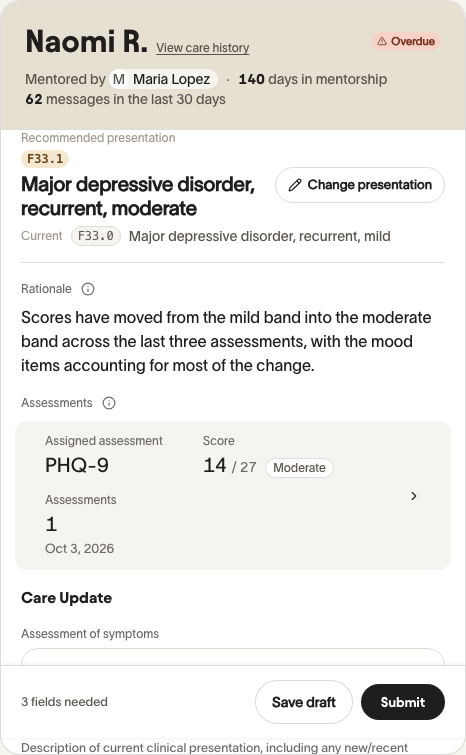
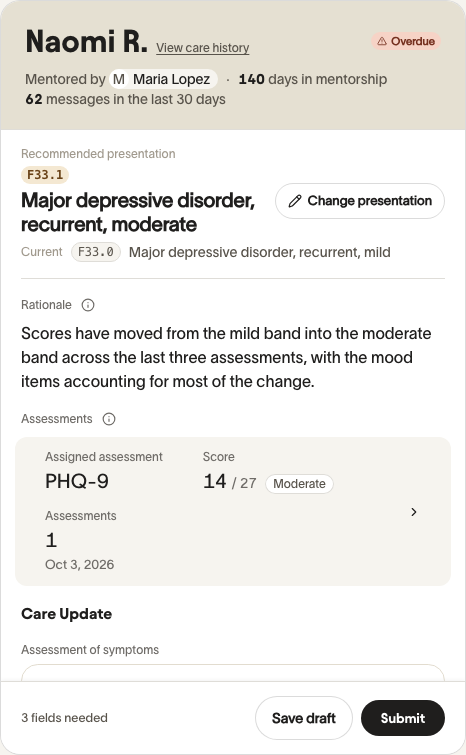
fix(care-reviews): the pane's top padding and footer edge, both lost to sticky insets
Both defects had one cause: a sticky box's inset is measured from the
scroller's content edge, inside its py-4.

- The overlay rail lifted itself with marginTop -16px. As a 0-height block
  in flow it pulled the pane's content up with it (first label 0px from the
  edge instead of 16), and sticky pushed the rail straight back, so the
  pane's thumb had sat 16px low since it shipped (20px from the top,
  overshooting the bottom by 12). The rail now takes no vertical margin and
  the thumb's translate subtracts the padding: gap 16, thumb inset 4 / 4.
- The action bar was sticky bottom-0, which pinned it 16px above the pane's
  edge with fields scrolling through the strip below. -bottom-4 puts it on
  the edge: gap 0 at top, middle and end of scroll.
- scrollbar-gutter probe gains both checks; each was mutation-tested (0px
  vs 16, and a 16px footer gap).

Changed region(s): [[0.03, 0.1523, 0.9614, 1.0], [0.6009, 0.2132, 0.9313, 0.2742], [0.4206, 0.5788, 0.691, 0.6702]]

diff --git a/src/components/ui/overlay-scrollbar.tsx b/src/components/ui/overlay-scrollbar.tsx
@@ -125,14 +125,28 @@ export function OverlayScrollbar({
     const cs = getComputedStyle(sc);
     rail.style.marginRight = `-${cs.paddingRight}`;
     rail.style.marginLeft = `-${cs.paddingLeft}`;
-    rail.style.marginTop = `-${cs.paddingTop}`;
+    /* ═══ VERTICALLY, THE RAIL STAYS PUT AND THE THUMB IS OFFSET ═══
+       This set `marginTop: -paddingTop` to lift the rail to the padding edge.
+       MEASURED, it did two wrong things and no right one:
+       1. It ATE THE TOP PADDING. The rail is a 0-height block in flow, so
+          pulling it up 16px pulled everything after it up too — the pane's
+          first label sat 0px from the scroller's edge instead of `py-4`'s 16.
+       2. It NEVER MOVED THE THUMB. A sticky box's `top: 0` is measured from
+          the scroller's CONTENT edge — inside its padding — so sticky pushed
+          the rail straight back to 16px, and the pane's thumb has sat 16px
+          low since it shipped: 20px from the top instead of 4, overshooting
+          the bottom by 12. The list never showed it because it has no top
+          padding.
+       So the rail takes no vertical margin and the thumb's own offset
+       subtracts the padding instead (below). */
+    const padTop = parseFloat(cs.paddingTop) || 0;
 
     const track = view - INSET_PX * 2;
     const h = Math.max(THUMB_MIN_PX, Math.round((view / total) * track));
     const range = track - h;
     const ratio = sc.scrollTop / (total - view);
     thumb.style.height = `${h}px`;
-    thumb.style.transform = `translateY(${INSET_PX + Math.round(ratio * range)}px)`;
+    thumb.style.transform = `translateY(${INSET_PX - padTop + Math.round(ratio * range)}px)`;
   }, [scrollerOf]);
 
   useLayoutEffect(() => {

diff --git a/src/components/tasks/task-pane.tsx b/src/components/tasks/task-pane.tsx
@@ -1203,7 +1203,14 @@ export function TaskPane({
       <div
         data-slot="task-pane-footer"
         className={cn(
-          "sticky bottom-0 -mx-5 -mb-4 mt-4 border-t border-[color:var(--border-subtle)]",
+          /* ═══ `-bottom-4`, NOT `bottom-0` — THE PADDING IS WHY ═══
+             A sticky box's inset is measured from the scroller's CONTENT edge,
+             inside its `py-4`. So `bottom-0` pinned the bar 16px ABOVE the
+             pane's bottom edge, and the fields scrolled through that strip
+             underneath it — measured, a 16px gap below the bar on every
+             scrolled pane. `-bottom-4` cancels the padding exactly, pinning
+             the bar to the edge; `-mb-4` still does the short-content case. */
+          "sticky -bottom-4 -mx-5 -mb-4 mt-4 border-t border-[color:var(--border-subtle)]",
           "bg-[var(--surface-card)] px-5 py-3.5",
           /* ═══ AN EXISTING TOKEN, NOT A NEW VALUE ═══
              The first two attempts were arbitrary values — `shadow-[0_-1px_3px_
